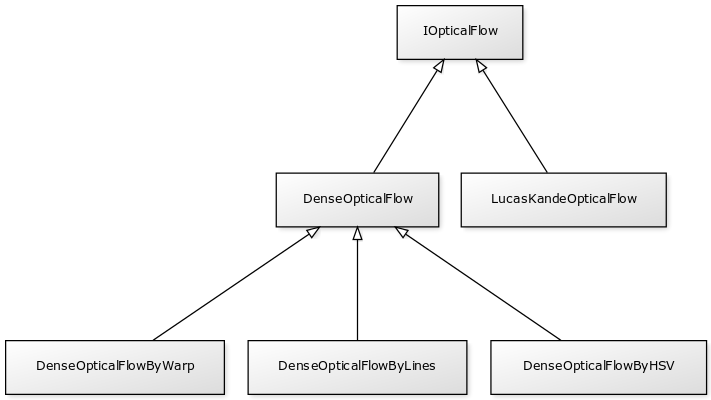
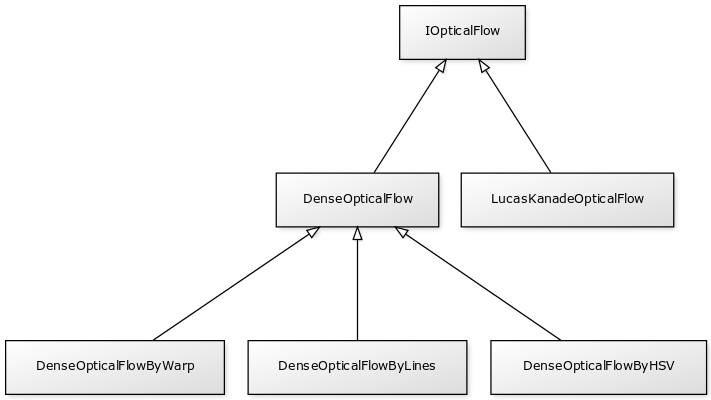
Fixed kande -> kanade.

diff --git a/OpticalFlowShowcase.py b/OpticalFlowShowcase.py
@@ -5,7 +5,7 @@
 
 ## class diagram
 # http://www.yuml.me/diagram/scruffy/class/draw
-# [IOpticalFlow]^[DenseOpticalFlow],[IOpticalFlow]^[LucasKandeOpticalFlow], [DenseOpticalFlow]^[DenseOpticalFlowByHSV],[DenseOpticalFlow]^[DenseOpticalFlowByLines],[DenseOpticalFlow]^[DenseOpticalFlowByWarp]
+# [IOpticalFlow]^[DenseOpticalFlow],[IOpticalFlow]^[LucasKanadeOpticalFlow], [DenseOpticalFlow]^[DenseOpticalFlowByHSV],[DenseOpticalFlow]^[DenseOpticalFlowByLines],[DenseOpticalFlow]^[DenseOpticalFlowByWarp]
 
 import numpy as np
 import cv2
@@ -74,7 +74,7 @@ class DenseOpticalFlowByWarp(DenseOpticalFlow):
         flow[:,:,1] += np.arange(h)[:,np.newaxis]
         return cv2.remap(grayFrame, flow, None, cv2.INTER_LINEAR)
 
-class LucasKandeOpticalFlow(IOpticalFlow):
+class LucasKanadeOpticalFlow(IOpticalFlow):
     def __init__(self):
         # params for ShiTomasi corner detection
         self.feature_params = dict( maxCorners = 100,
@@ -130,12 +130,12 @@ def CreateOpticalFlow(type):
         return DenseOpticalFlowByLines()
     def dense_by_warp():
         return DenseOpticalFlowByWarp()
-    def lucas_kande():
-        return LucasKandeOpticalFlow()
+    def lucas_kanade():
+        return LucasKanadeOpticalFlow()
     return {
         'dense_hsv': dense_by_hsv,
         'dense_lines': dense_by_lines,
         'dense_warp': dense_by_warp,
-        'lucas_kande': lucas_kande
+        'lucas_kanade': lucas_kanade
     }.get(type, dense_by_lines)()
     

diff --git a/main.py b/main.py
@@ -12,7 +12,7 @@ Hit followings to switch to:
 1 - Dense optical flow by HSV color image (default);
 2 - Dense optical flow by lines;
 3 - Dense optical flow by warped image;
-4 - Lucas-Kande method.
+4 - Lucas-Kanade method.
 
 Hit 's' to save image.
 
@@ -28,7 +28,7 @@ def main():
             ord('1'): ('==> Dense_by_hsv', 'dense_hsv'),
             ord('2'): ('==> Dense_by_lines', 'dense_lines'),
             ord('3'): ('==> Dense_by_warp', 'dense_warp'),
-            ord('4'): ('==> Lucas-Kande', 'lucas_kande')
+            ord('4'): ('==> Lucas-Kanade', 'lucas_kanade')
         }.get(key, ('==> Dense_by_hsv', 'dense_hsv'))
         print message
         of = CreateOpticalFlow(type)

diff --git a/raspi_main.py b/raspi_main.py
@@ -17,7 +17,7 @@ Hit followings to switch to:
 1 - Dense optical flow by HSV color image (default);
 2 - Dense optical flow by lines;
 3 - Dense optical flow by warped image;
-4 - Lucas-Kande method.
+4 - Lucas-Kanade method.
 
 Hit 's' to save image.
 
@@ -33,7 +33,7 @@ def main():
             ord('1'): ('==> Dense_by_hsv', 'dense_hsv'),
             ord('2'): ('==> Dense_by_lines', 'dense_lines'),
             ord('3'): ('==> Dense_by_warp', 'dense_warp'),
-            ord('4'): ('==> Lucas-Kande', 'lucas_kande')
+            ord('4'): ('==> Lucas-Kanade', 'lucas_kanade')
         }.get(key, ('==> Dense_by_hsv', 'dense_hsv'))
         print message
         of = CreateOpticalFlow(type)

diff --git a/README.md b/README.md
@@ -26,9 +26,9 @@ Features:
 
 ![WARP](https://github.com/daisukelab/cv_opt_flow/blob/master/sample_result/warp.png "WARP") ![WARP SRC](https://github.com/daisukelab/cv_opt_flow/blob/master/sample_result/warp_src.png "WARP Source")
 
-- Lucas-Kande method
+- Lucas-Kanade method
 
-![Lucas-Kande](https://github.com/daisukelab/cv_opt_flow/blob/master/sample_result/lk.png "Lucas-Kande")
+![Lucas-Kanade](https://github.com/daisukelab/cv_opt_flow/blob/master/sample_result/lk.png "Lucas-Kanade")
 
 ## Tested Environment
 (Mac)
@@ -57,7 +57,7 @@ Usage will be shown as below.
     1 - Dense optical flow by HSV color image (default);
     2 - Dense optical flow by lines;
     3 - Dense optical flow by warped image;
-    4 - Lucas-Kande method.
+    4 - Lucas-Kanade method.
 
     Hit 's' to save image.
 
